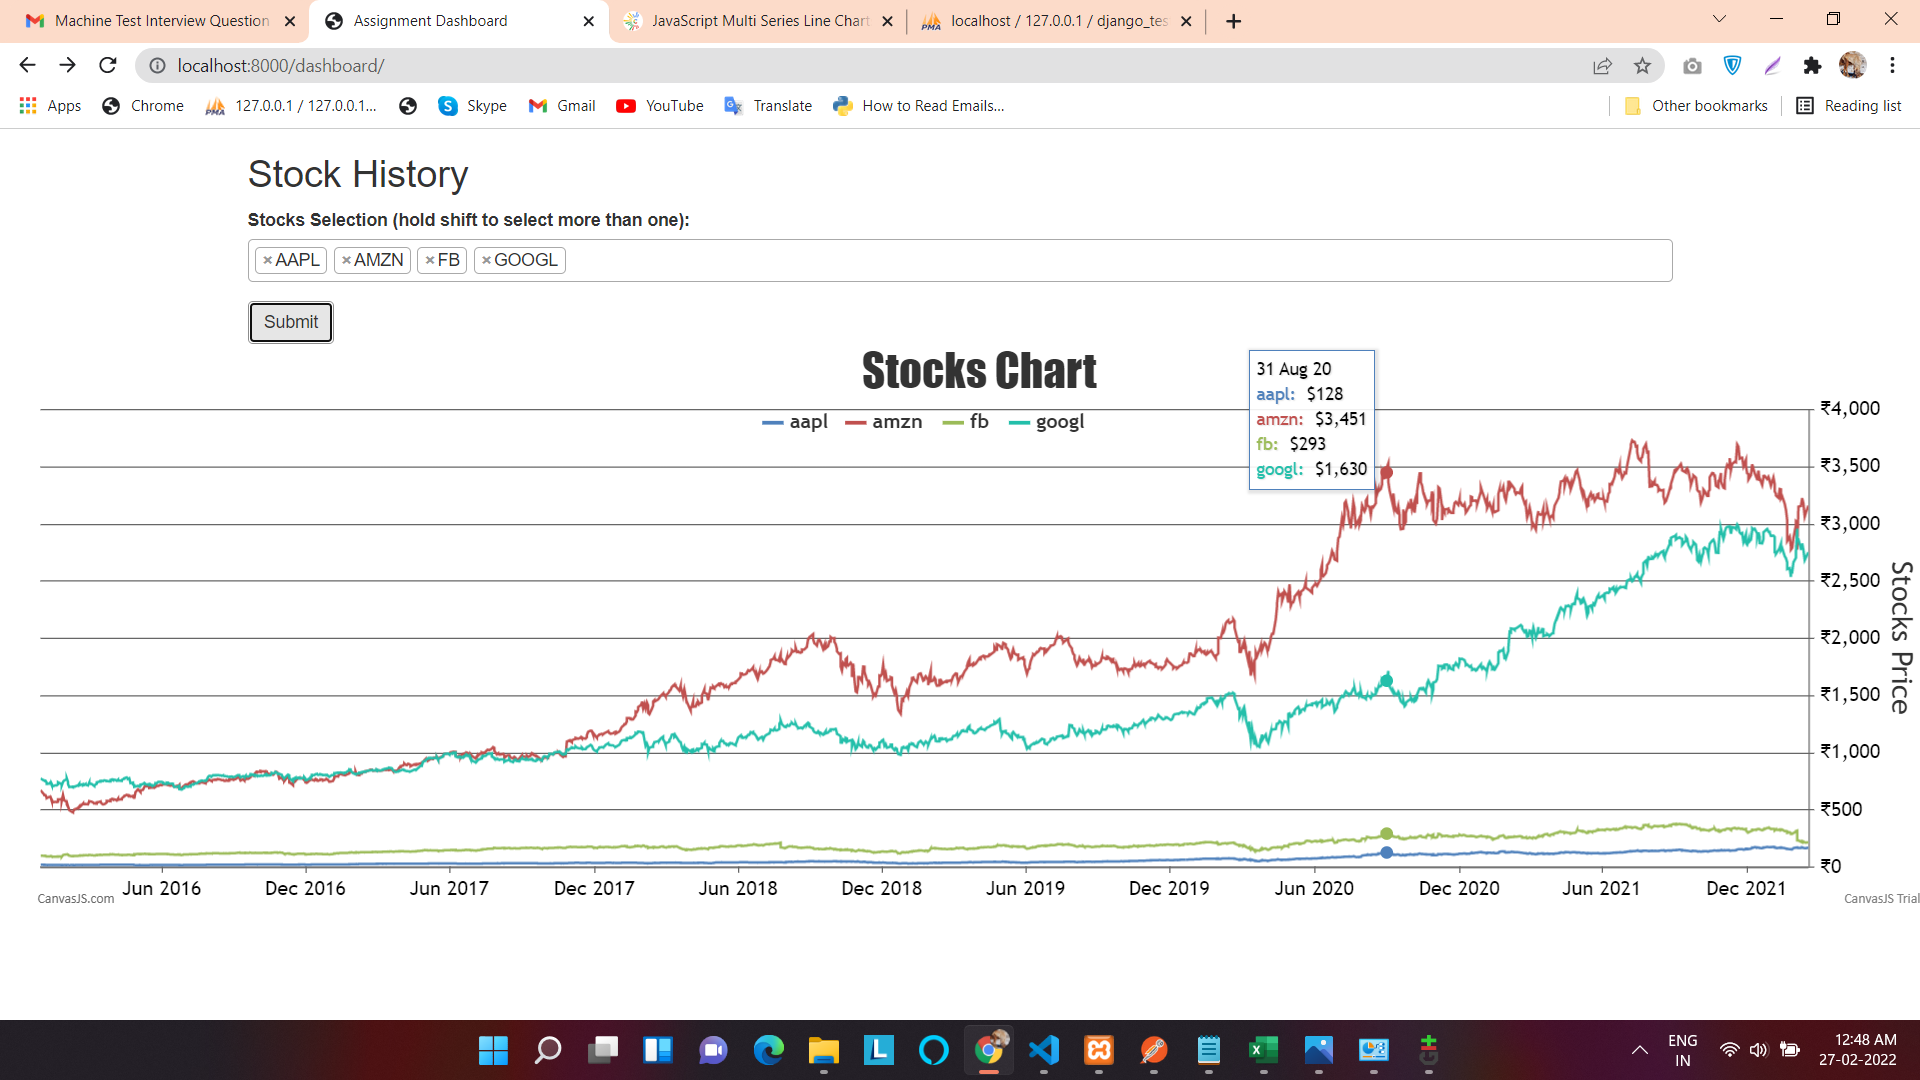
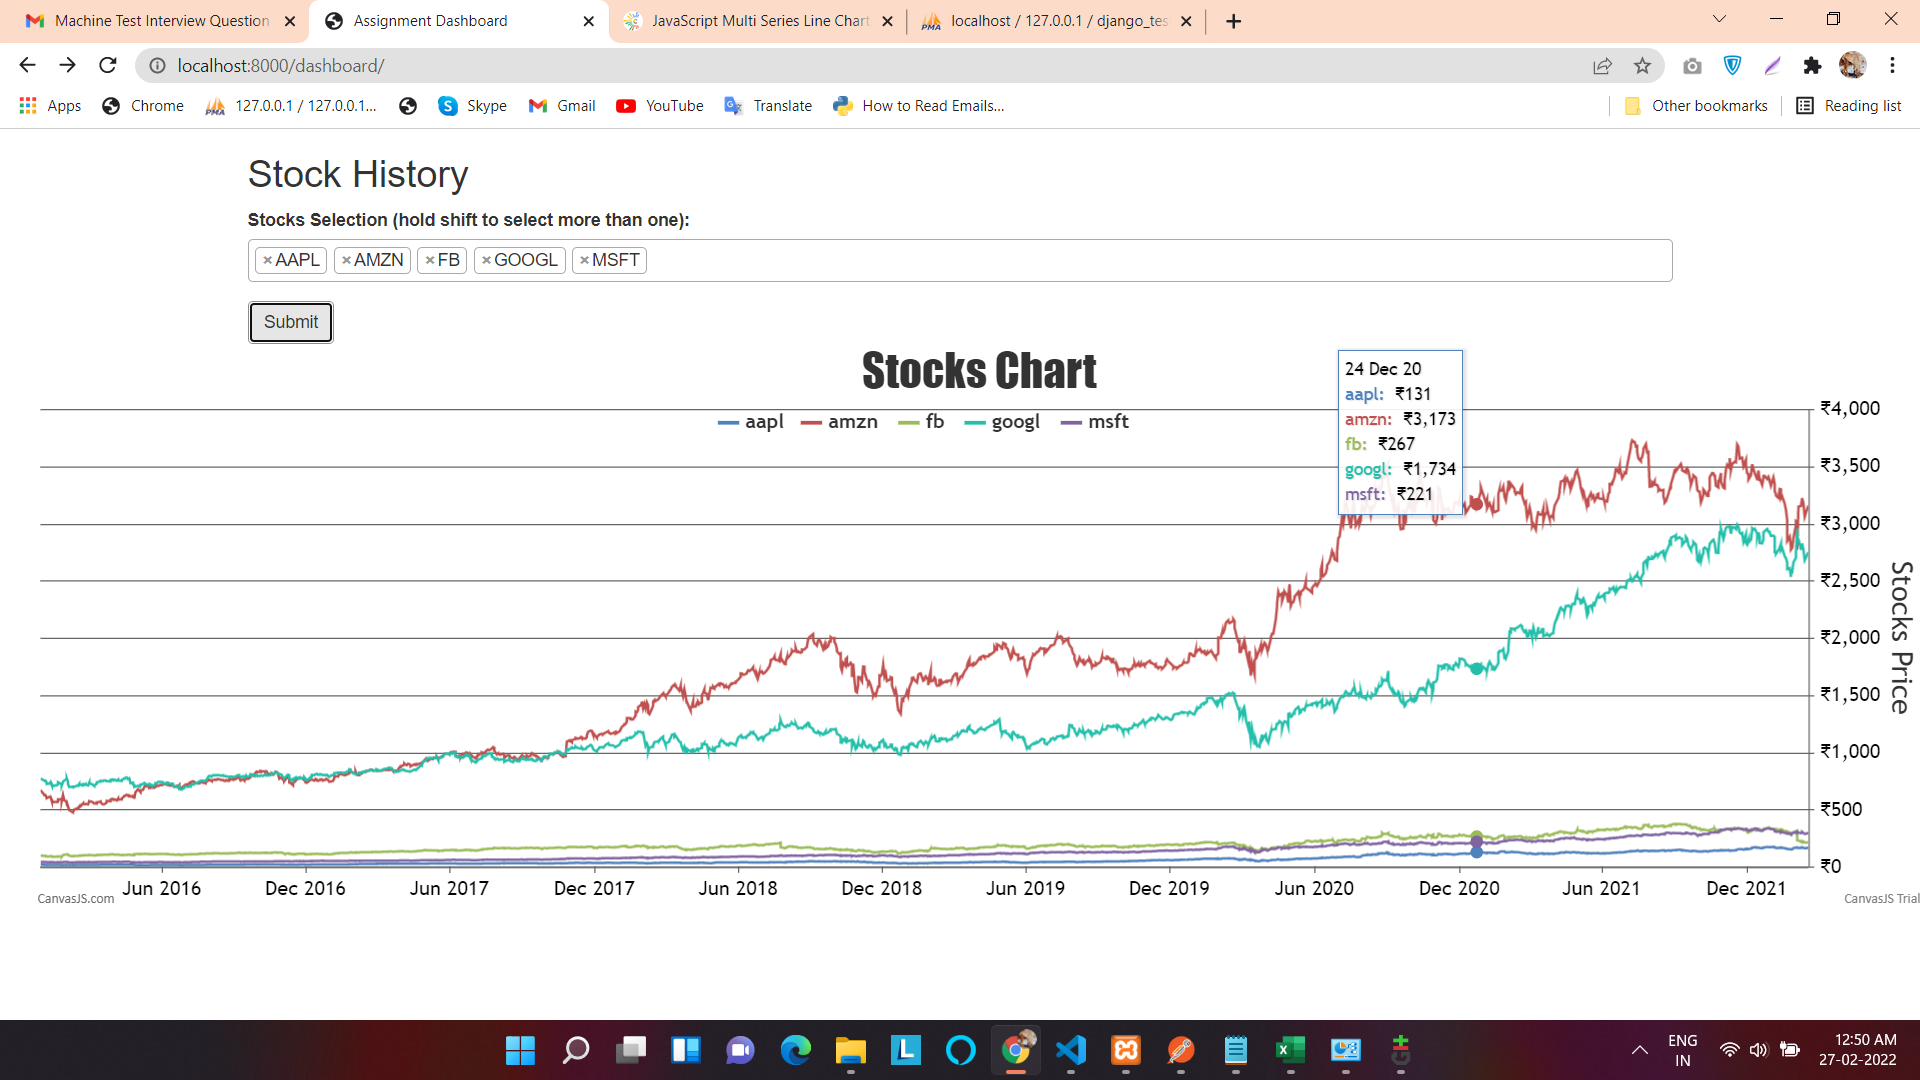
changing the screenshot

diff --git a/env_site/assignment/app/views.py b/env_site/assignment/app/views.py
@@ -45,7 +45,7 @@ def stocksData(request):
         single_row['name'] = each
         single_row['showInLegend'] = True
         single_row['markerSize'] = 0
-        single_row['yValueFormatString'] = "#,###"
+        single_row['yValueFormatString'] = "₹#,###"
         single_row['dataPoints'] = []
         for st in stocks_data:
             st_single = {}
